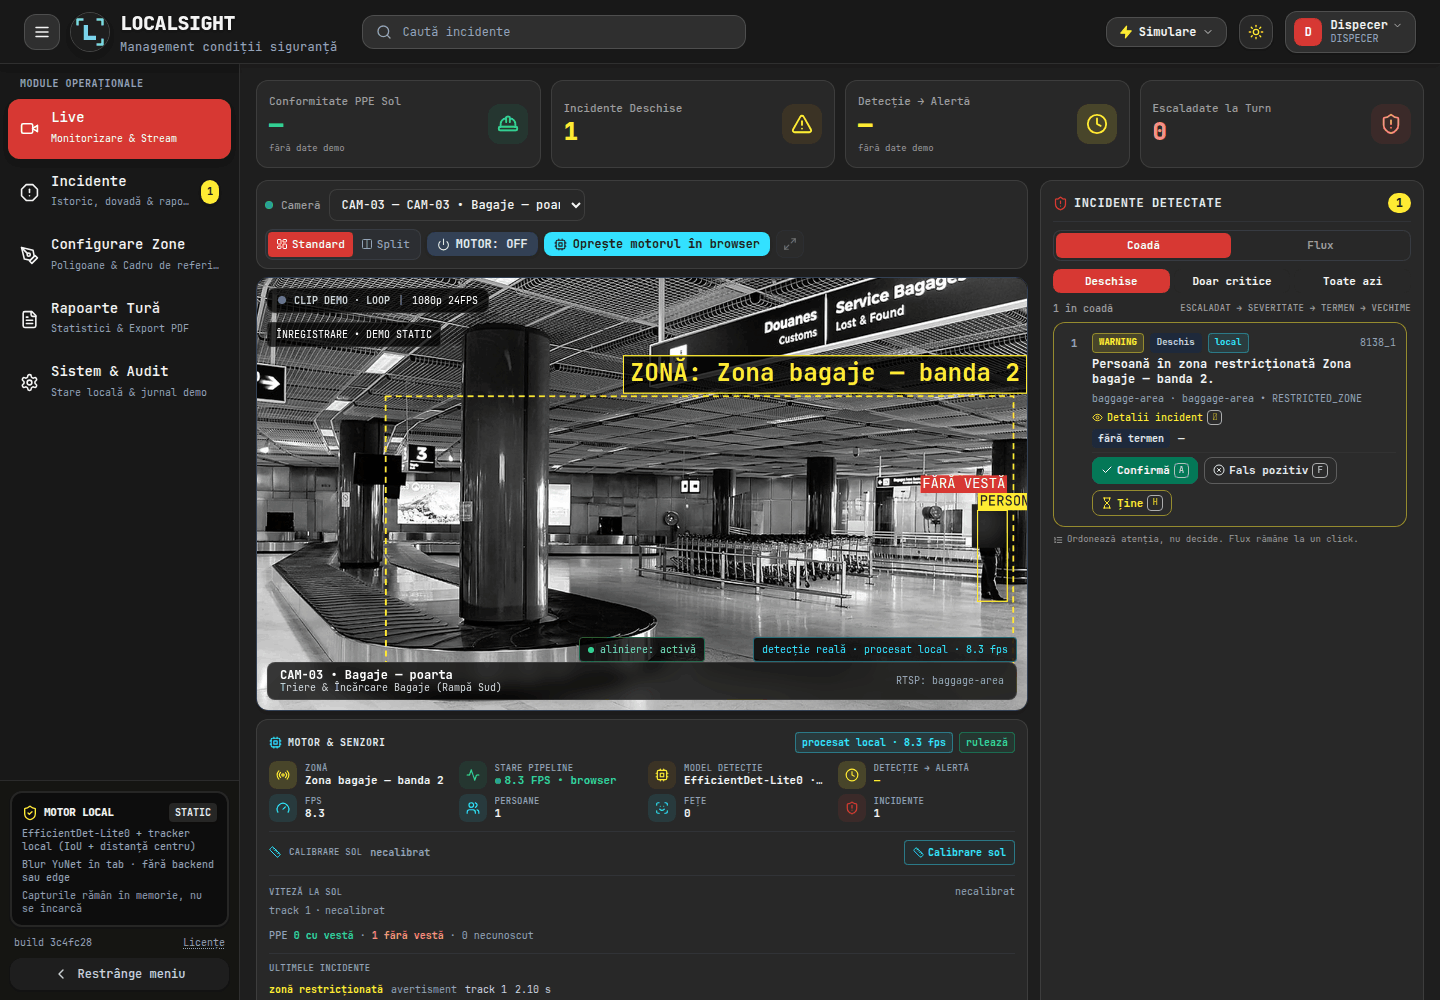
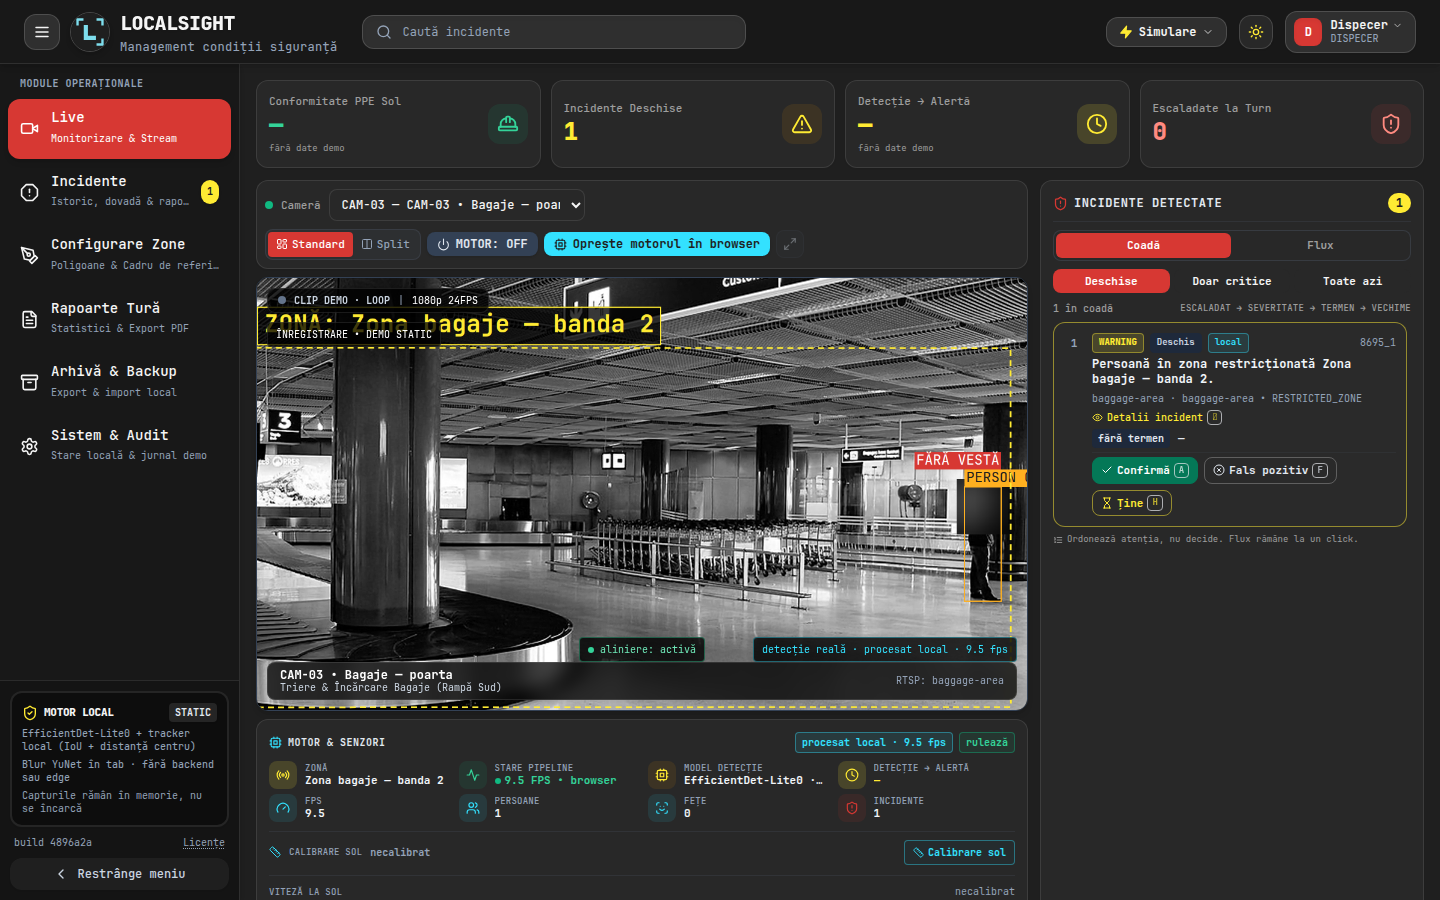
docs: refresh the final captures and the local-data copy

diff --git a/frontend/src/components/views/SettingsView.jsx b/frontend/src/components/views/SettingsView.jsx
@@ -865,7 +865,8 @@ const SettingsView = () => {
   const privacyBullets = isMock ? (
     <>
       <PrivacyBullet>
-        Cadrele video trăiesc în memoria tabului: sunt desenate pe canvas și nu se încarcă nicăieri.
+        Cadrele video sunt desenate pe canvas și nu se încarcă nicăieri. Incidentele, snapshot-urile
+        blurate și confirmările rămân în IndexedDB-ul acestui browser; arhiva JSON e copia explicită.
       </PrivacyBullet>
       <PrivacyBullet>
         Cu motorul pornit, fețele sunt{' '}
